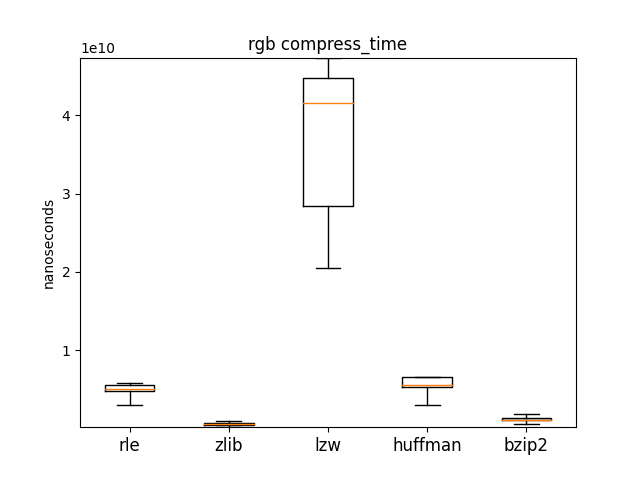
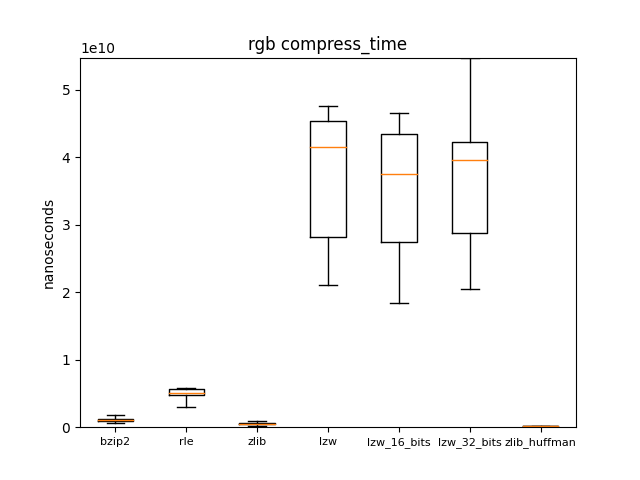
adds data

diff --git a/analysis.py b/analysis.py
@@ -3,7 +3,6 @@ import pandas as pd
 import numpy as np
 from collections import defaultdict
 from helper.constants import units
-from main import algos
 
 fig, ax = plt.subplots()
 
@@ -35,9 +34,9 @@ def customized_box_plot(percentiles, axes, redraw=True, *args, **kwargs):
         box_plot["medians"][box_no].set_ydata([q3_start, q3_start])
         min_y = min(q1_start, min_y)
         max_y = max(q4_end, max_y)
-        axes.set_ylim([min_y, max_y])
+        axes.set_ylim([0, max_y])
     x_ticks_labels = [experiment[5] for experiment in percentiles]
-    ax.set_xticklabels(x_ticks_labels, fontsize=12)
+    ax.set_xticklabels(x_ticks_labels, fontsize=8)
     if redraw:
         ax.figure.canvas.draw()
     return box_plot
